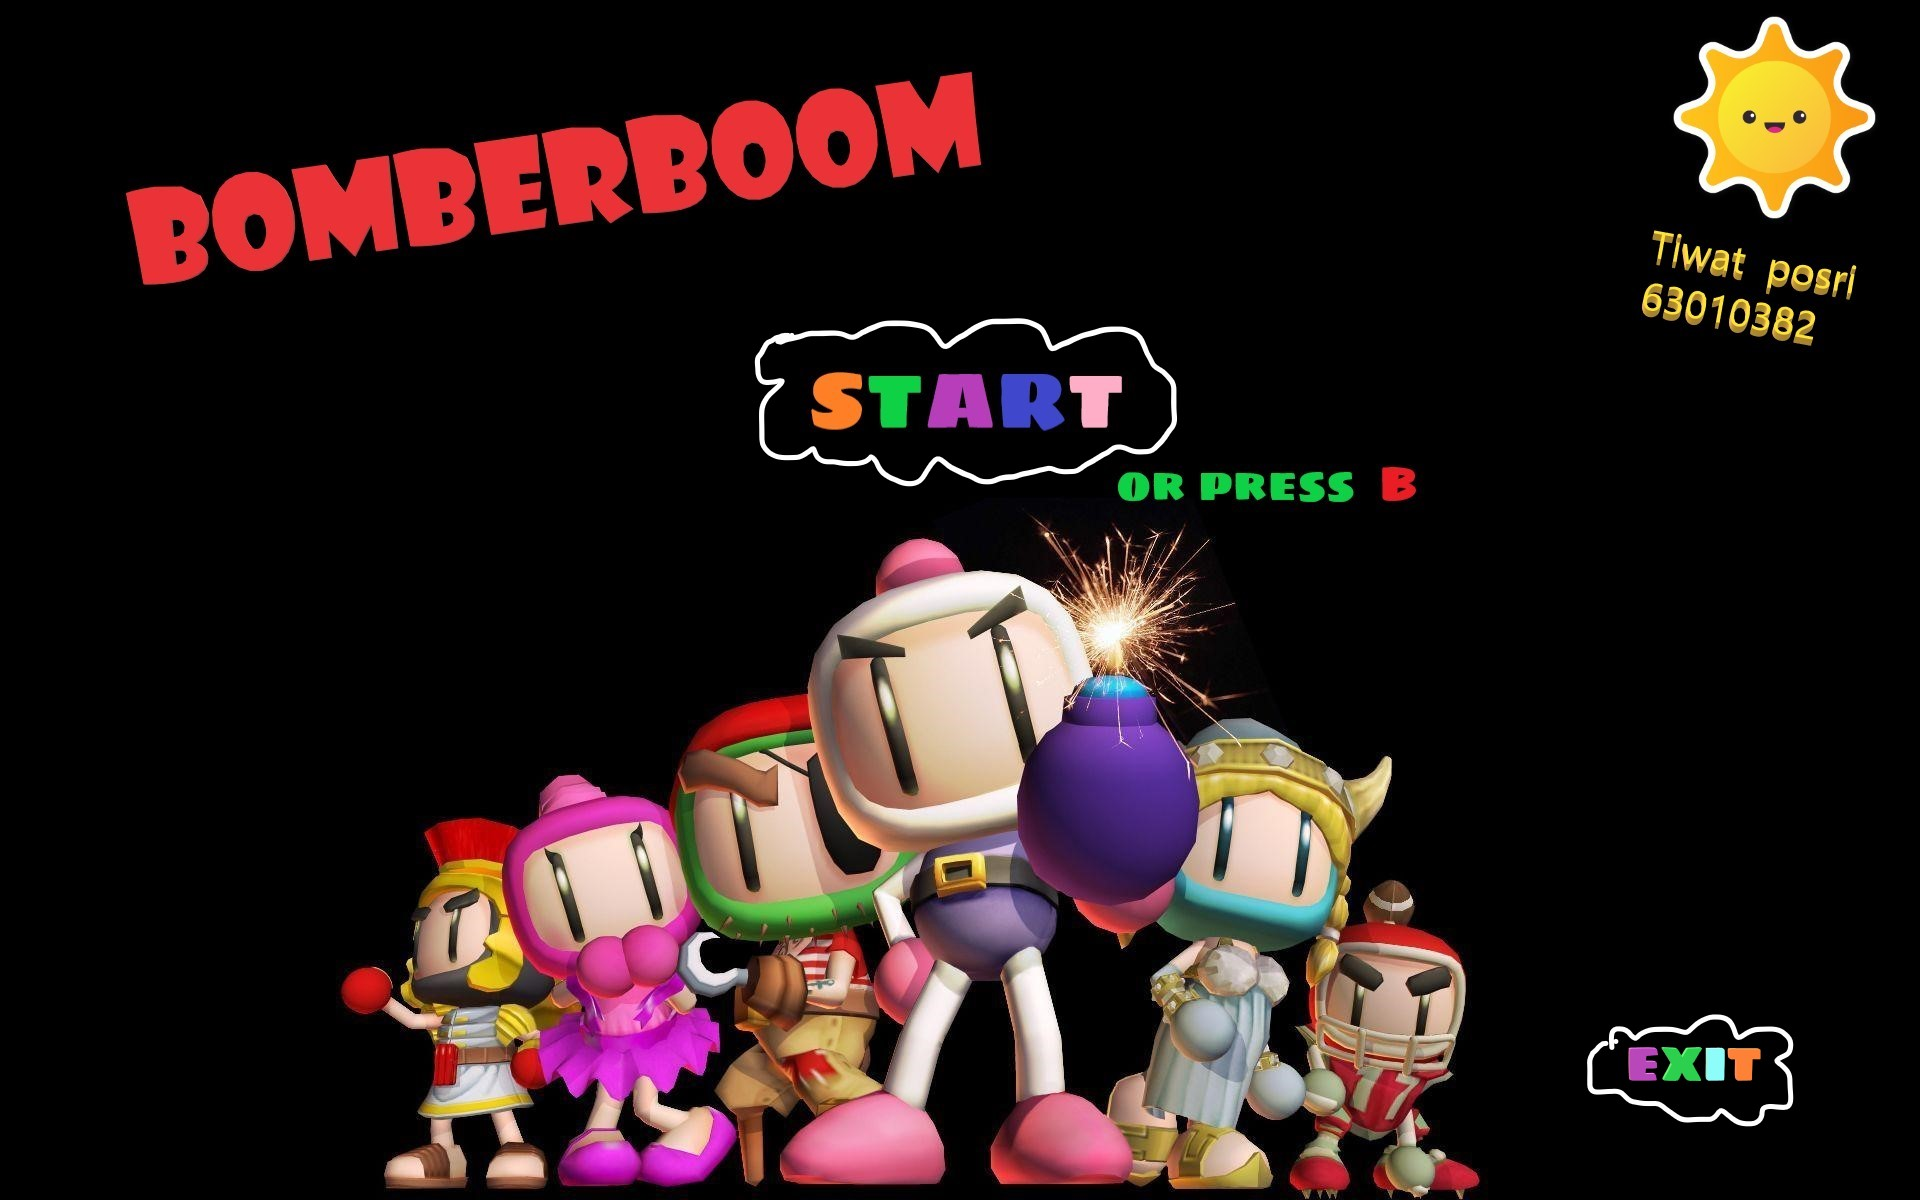
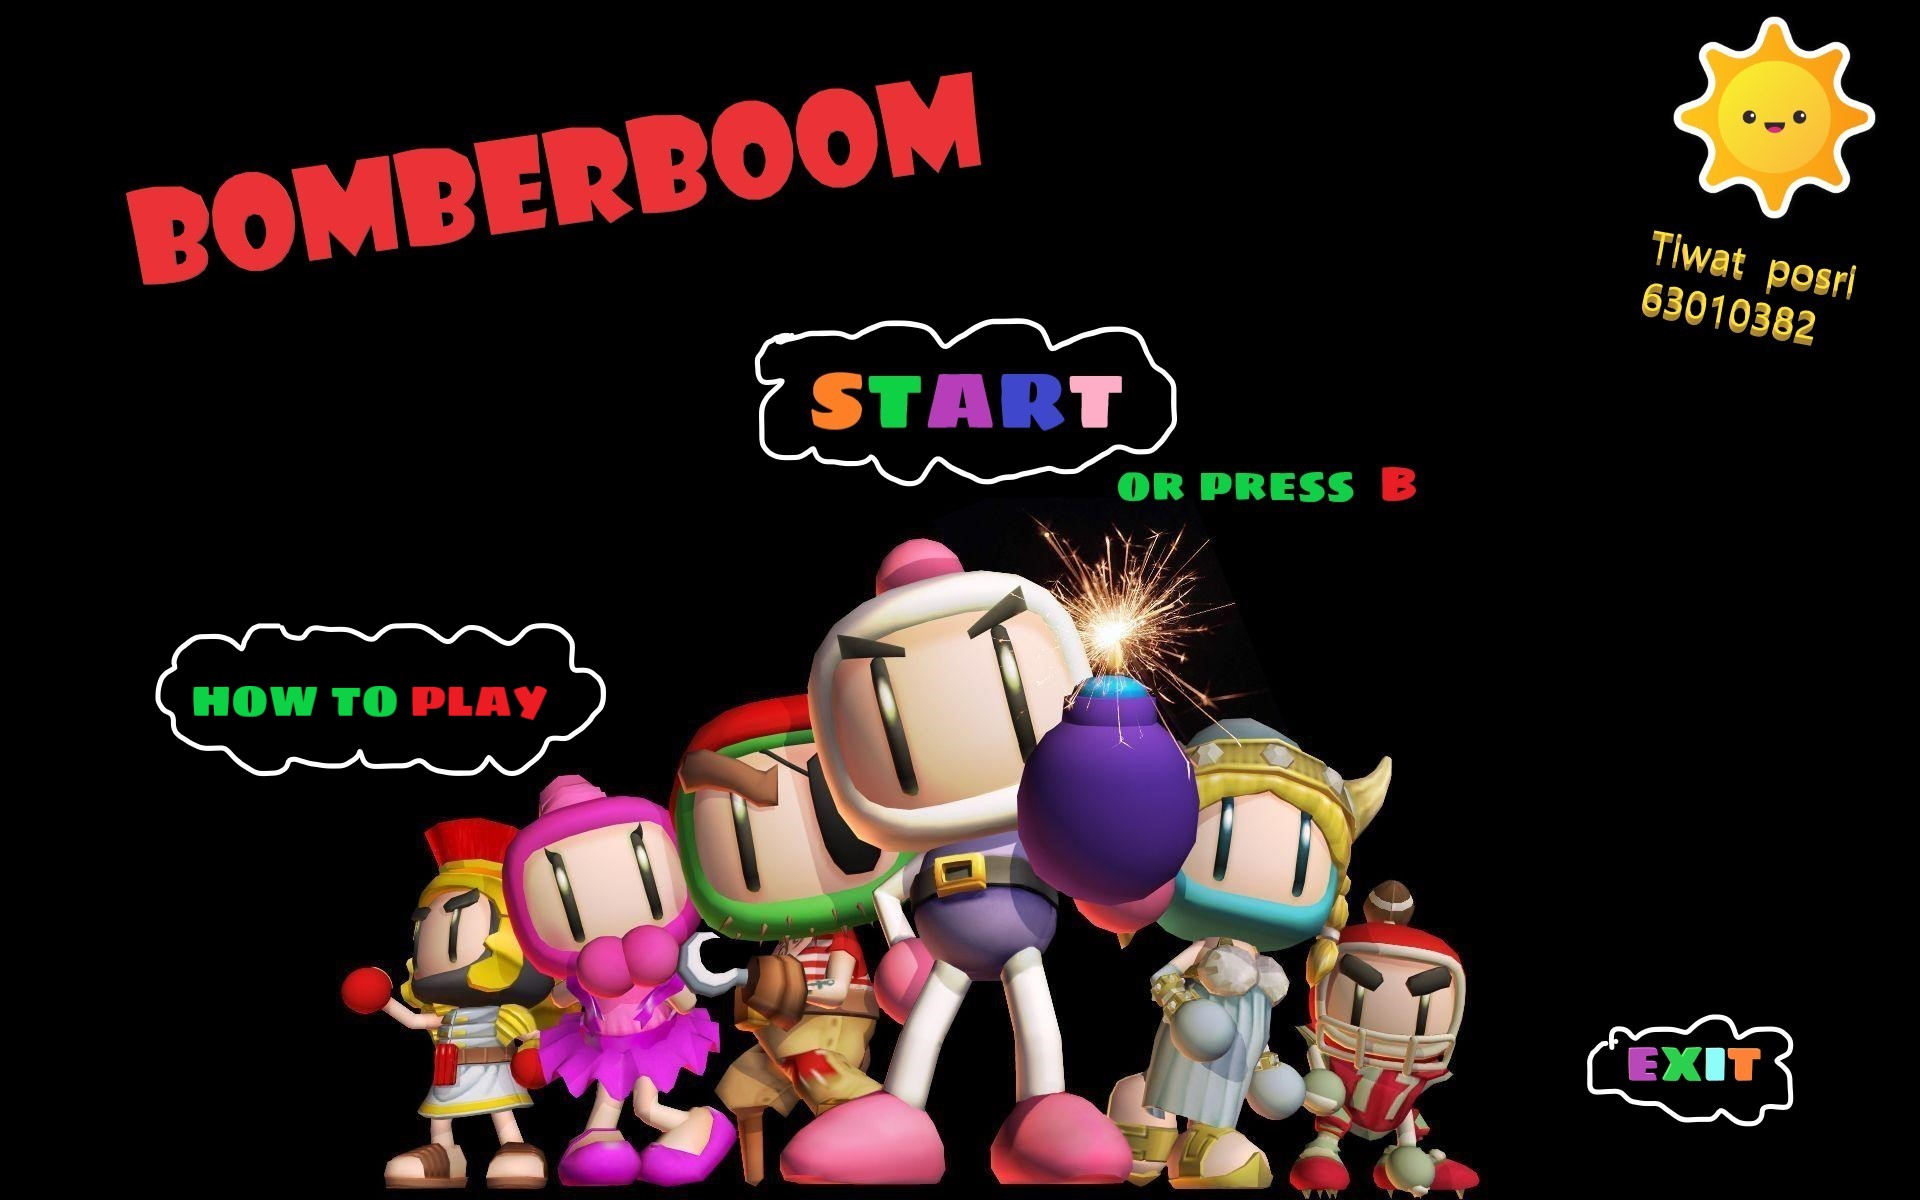
canb

Changed region(s): [[0.0625, 0.5242, 0.3125, 0.6475]]

diff --git a/game-2/sprite.cpp b/game-2/sprite.cpp
@@ -114,13 +114,13 @@ int main()
 	rectangle3000.setFillColor(Color::Black);
 	////// Rectangle0(x0.3,y0.3)
 
-	sf::RectangleShape rectangle4000(Vector2f(100.f, 80.f));
-	rectangle4000.setPosition(Vector2f(890.f, 600.f));
+	sf::RectangleShape rectangle4000(Vector2f(100.f, 120.f));
+	rectangle4000.setPosition(Vector2f(110.f, 530.f));
 	rectangle4000.setFillColor(Color::White);
 	////// Rectangle0(x0.4,y0.4)
 
-	sf::RectangleShape rectangle5000(Vector2f(100.f, 80.f));
-	rectangle5000.setPosition(Vector2f(200.f, 370.f));
+	sf::RectangleShape rectangle5000(Vector2f(270.f, 100.f));
+	rectangle5000.setPosition(Vector2f(80.f, 385.f));
 	rectangle5000.setFillColor(Color::White);
 	////// Rectangle0(x0.2,y0.2)
 
@@ -280,6 +280,9 @@ int main()
 	//////Texture boss
 	sf::Texture bossTexture;
 	if (!bossTexture.loadFromFile("boss5-removebg-preview.png"));
+	//////Texture turnback
+	sf::Texture turnbackTexture;
+	if (!turnbackTexture.loadFromFile("turnbacksign-removebg-preview.png"));
 	//////Texture menu
 	sf::Texture menuTexture;
 	if (!menuTexture.loadFromFile("bigmenu2.jpg"));
@@ -377,6 +380,17 @@ int main()
 	sf::Vector2f spawnPoint726 = { 0.f,0.f };//140
 	shapehowto.setPosition(spawnPoint726);
 
+	///////turnback
+	sf::Sprite turnback;
+	turnback.setTexture(turnbackTexture);
+	int turnbackSizeX = turnbackTexture.getSize().x;
+	int turnbackSizeY = turnbackTexture.getSize().y;
+	turnback.setScale(sf::Vector2f(0.5f, 0.5f));
+	turnback.setTextureRect(sf::IntRect(0, 0, turnbackSizeX, turnbackSizeY));
+
+	sf::Vector2f spawnPoint736 = { 50.f,470.f };//140
+	turnback.setPosition(spawnPoint736);
+
 	///////remote jamao
 	sf::Sprite shaperemote;
 	shaperemote.setTexture(remoteTexture);
@@ -404,6 +418,15 @@ int main()
 	shapelaser.setTextureRect(sf::IntRect(0, 0,laserSizeX, laserSizeY));
 	sf::Vector2f spawnPoint299 = { 5000.f,600.f };//290,100
 	shapelaser.setPosition(spawnPoint299);
+	///////laser2
+	sf::Sprite shapelaser2;
+	shapelaser2.setTexture(laserTexture);
+	int laser2SizeX = laserTexture.getSize().x;
+	int laser2SizeY = laserTexture.getSize().y;
+	shapelaser2.setScale(sf::Vector2f(1.5f, 1.0f));
+	shapelaser2.setTextureRect(sf::IntRect(0, 0, laser2SizeX, laser2SizeY));
+	sf::Vector2f spawnPoint399 = { 5000.f,600.f };//290,100
+	shapelaser2.setPosition(spawnPoint399);
 	///////grape
 	sf::Sprite shapegrape;
 	shapegrape.setTexture(grapeTexture);
@@ -1253,23 +1276,33 @@ int main()
 		//window.draw(rectangle1000);
 			//window.draw(rectangle2000);
 		window.draw(shapemenu);
-		window.draw(spritemouse);
-		window.draw(rectangle5000);
+		//window.draw(spritemouse);
+		//window.draw(rectangle5000);
 		window.draw(shapelaser);
+		
 		//window.draw(rectangle3000);//use
 		//window.draw(rectangle4000);//use
 		//window.draw(shapehowto);//use
 		//window.draw(rectangle0);
-		if (yo == 1&&weerboo>=0) {
+		if (yo == 1&&weerboo>=0&&canb == 1) {
 			window.draw(rectangle3000);
-			window.draw(rectangle4000);
+			//window.draw(rectangle4000);
+			window.draw(shapelaser2);
+			window.draw(turnback);
 			window.draw(shapehowto);
+			
 			//yo = 0;
-			if (spritemouse.getGlobalBounds().intersects(rectangle4000.getGlobalBounds()) && sf::Mouse::isButtonPressed(sf::Mouse::Left)) {
+		if (spritemouse.getGlobalBounds().intersects(rectangle4000.getGlobalBounds())) {
+			shapelaser2.setPosition(-10.f, 540.f);
+		}
+		else {
+			shapelaser2.setPosition(-10000.f, 600.f);
+		}
+			if (spritemouse.getGlobalBounds().intersects(rectangle4000.getGlobalBounds()) && sf::Mouse::isButtonPressed(sf::Mouse::Left)&&canb==1) {
 				yo = 0;
+				rectangle5000.setPosition(80.f, 385.f);
 			}
-			
-			
+		
 		}
 		weerboo = weerboo + DeltaTime.asSeconds();
 		window.display();
@@ -1281,26 +1314,29 @@ int main()
 		if (sf::Mouse::isButtonPressed(sf::Mouse::Left)&&z==0) {
 			//spritemouse.setPosition(0.f, 0.f);
 		}
-		if (spritemouse.getGlobalBounds().intersects(rectangle2000.getGlobalBounds()) && sf::Mouse::isButtonPressed(sf::Mouse::Left)) {
+		if (spritemouse.getGlobalBounds().intersects(rectangle2000.getGlobalBounds()) && sf::Mouse::isButtonPressed(sf::Mouse::Left)&&canb==1) {
 			rectangle2000.setPosition(-2000.f, -2000.f);
 		window.close();
 		}
 		//////how to play
-		if (yo==0&& (spritemouse.getGlobalBounds().intersects(rectangle5000.getGlobalBounds())&& sf::Mouse::isButtonPressed(sf::Mouse::Left))) {
+		if (yo==0&& (spritemouse.getGlobalBounds().intersects(rectangle5000.getGlobalBounds())&& sf::Mouse::isButtonPressed(sf::Mouse::Left))&&canb==1) {
+			rectangle5000.setPosition(-2000.f, -2000.f);
 			yo = 1;
+
 		}
-		/////////////////
-		if (sf::Keyboard::isKeyPressed(sf::Keyboard::B) ){
+		if (sf::Keyboard::isKeyPressed(sf::Keyboard::B) && canb == 1){
 			z+=1;
 		}
+		/////////////////laser
 		if (spritemouse.getGlobalBounds().intersects(rectangle1000.getGlobalBounds())) {
 			shapelaser.setPosition(-10.f, 290.f);
 		}
 		else {
 			shapelaser.setPosition(5000.f, 400.f);
 		}
-		
-		if (end==0&&(z==1||( spritemouse.getGlobalBounds().intersects(rectangle1000.getGlobalBounds())&& sf::Mouse::isButtonPressed(sf::Mouse::Left)))) {
+	
+		/////////////////
+		if ((canb==1&&end==0)&&(z==1||( spritemouse.getGlobalBounds().intersects(rectangle1000.getGlobalBounds())&& sf::Mouse::isButtonPressed(sf::Mouse::Left)))) {
 			if (control == 0) {
 				song.play();
 				time2 = 0;
@@ -1322,7 +1358,7 @@ int main()
 		}
 
 		//printf("breakk=%d\n", breakk);
-		//printf("weerboo=%f\n",weerboo);
+		printf("canb=%d\n",canb);
 		
 		if (!sf::Keyboard::isKeyPressed(sf::Keyboard::B))
 		{
